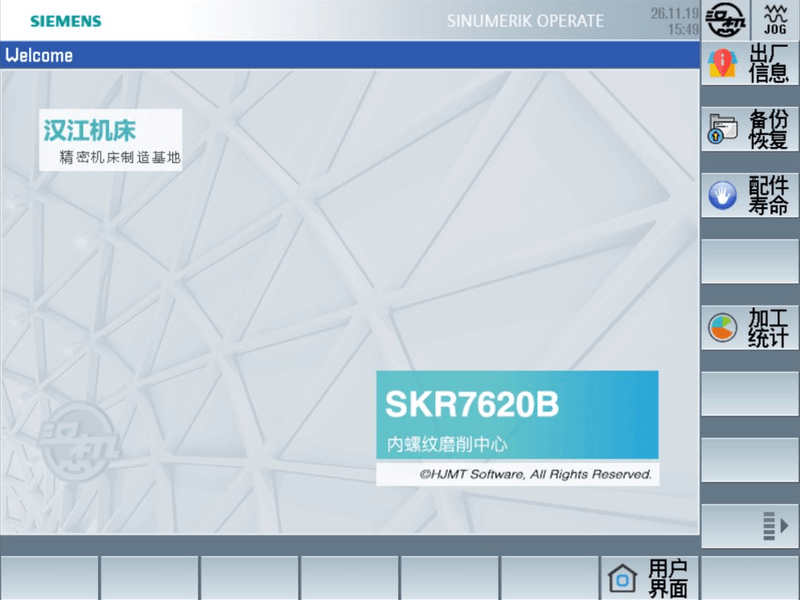
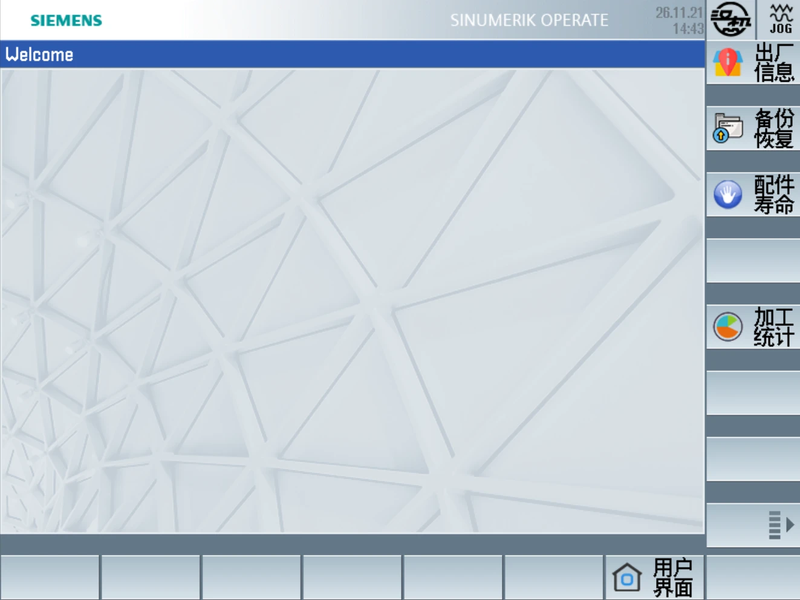
5.1/hlp: 欢迎页与出厂信息截图换为最新通用背景
- 手册 5.1 两张实拍图按新背景重新标注，图注与说明去掉具体机型
- 原图放入 raw_overrides，annotate_screenshots 标注文字同步更新
- hlp_src section_9 欢迎页说明同步

diff --git a/tools/annotate_screenshots.py b/tools/annotate_screenshots.py
@@ -272,7 +272,7 @@ HMI_SPECS = {
     },
     "hmi_custom_home.png": {
         "callouts": [
-            ([4, 70, 696, 533], "tl", "定制主入口画布（如勾选删除厂商标识图则使用通用灰色无标识底图）"),
+            ([4, 70, 696, 533], "tl", "欢迎页背景画布（默认为不含厂商标识与机型信息的通用背景图）"),
             (vs_rect(1, 3), "out_l", "VS1 出厂信息(ac7) / VS2 参数备份恢复(需 ac3 用户口令+开关) / VS3 配件寿命(ac7+开关)"),
             (vs_rect(5), "out_l", "VS5 加工统计与滚轮寿命记录（需 ac4 钥匙开关 3 档+开关）"),
             (vs_rect(8), (682, 518), "VS8 扩展菜单(MENU_1, 需 ac3 用户口令)：点击展开右侧顶部 VS1「机床配置」入口"),
@@ -281,7 +281,7 @@ HMI_SPECS = {
     },
     "hmi_device_info.png": {
         "callouts": [
-            ([140, 250, 456, 368], "top_r", "显示机床型号及出厂编号（INI[130]；ac3 用户口令下连续点击隐藏 VS3 8次可解锁编辑）"),
+            ([140, 250, 400, 372], "top_r", "显示机床型号及出厂编号（INI[130]；ac3 用户口令下连续点击隐藏 VS3 8次可解锁编辑）"),
             (hs_rect(8), "htop", "HS8 返回：退出出厂信息页回到 CUSTOM 主界面"),
         ]
     },

diff --git a/5_custom_and_system/custom_home.md b/5_custom_and_system/custom_home.md
@@ -2,7 +2,7 @@
 
 ## 1. CUSTOM 自定义主入口（`a_custom.com`）
 
-按下机床面板 **`CUSTOM`** 键（或 Area Menu **`HS8 用户界面`**）后进入 **Welcome** 欢迎主页（标题由 <code>&#36;85019</code> 对应文字显示），首页中央展示设备定制主图形（依据系统分辨率自动加载 `ico800/.../custom.png`、`ico1024/.../custom.png` 或无商标版图片）。
+按下机床面板 **`CUSTOM`** 键（或 Area Menu **`HS8 用户界面`**）后进入 **Welcome** 欢迎主页（标题由 <code>&#36;85019</code> 对应文字显示），画面主体为欢迎页背景图（由 `cfg/custom.ini` 指定，按语言分别存放），默认是不含厂商标识与机型信息的通用背景；机床型号与出厂编号统一在 **出厂信息** 页查看，该页使用同风格的通用背景。
 
 ![SinuTrain 中 CUSTOM 欢迎主页实拍](../images/sinutrain/hmi_custom_home.png)
 
@@ -23,11 +23,11 @@
 
 点击首页 **`VS1 出厂信息`** 打开出厂信息页（`Mask0`），向客户与售后工程师展示当前机床硬件档案：
 
-![出厂信息界面实拍（SKR7620B 内螺纹磨削中心）](../images/sinutrain/hmi_device_info.png)
+![出厂信息界面实拍（通用背景，机床型号与出厂编号为示例值）](../images/sinutrain/hmi_device_info.png)
 
 | 显示/操作项 | 关联变量（NC 索引） | 说明 |
 | :--- | :--- | :--- |
-| **机床型号** | 文本资源 `machineNameLng` / 机型标识 | 展示设备中文名称及出厂型号规格（只读展示，如 `内螺纹磨削中心`） |
+| **机床型号** | 文本资源 `machineNameLng` / 机型标识 | 展示生成程序包时填写的机床型号（只读展示，图中 `TEST` 为示例） |
 | **出厂编号** | `INI[130]`（HMI 为 `INI[131]`） | 默认显示当前设备出厂序列号，用于追踪机身配置与历史版密码核算 |
 | **`VS3` 软键（隐藏修改触发）** | `COUNT` / `INI[130]` | 需 **`ac3`（用户口令及以上）** 权限：现场售后需要更新或录入出厂编号时，连续点击 **`VS3`** 8 次（`COUNT >= 8`）可将 `INI[130]`（HMI `INI[131]`）由只读切换为可编辑输入框（`WR3` → `WR2`）并保存 |
 | **`HS8` 返回** | — | 返回 `CUSTOM` 主页面 |
